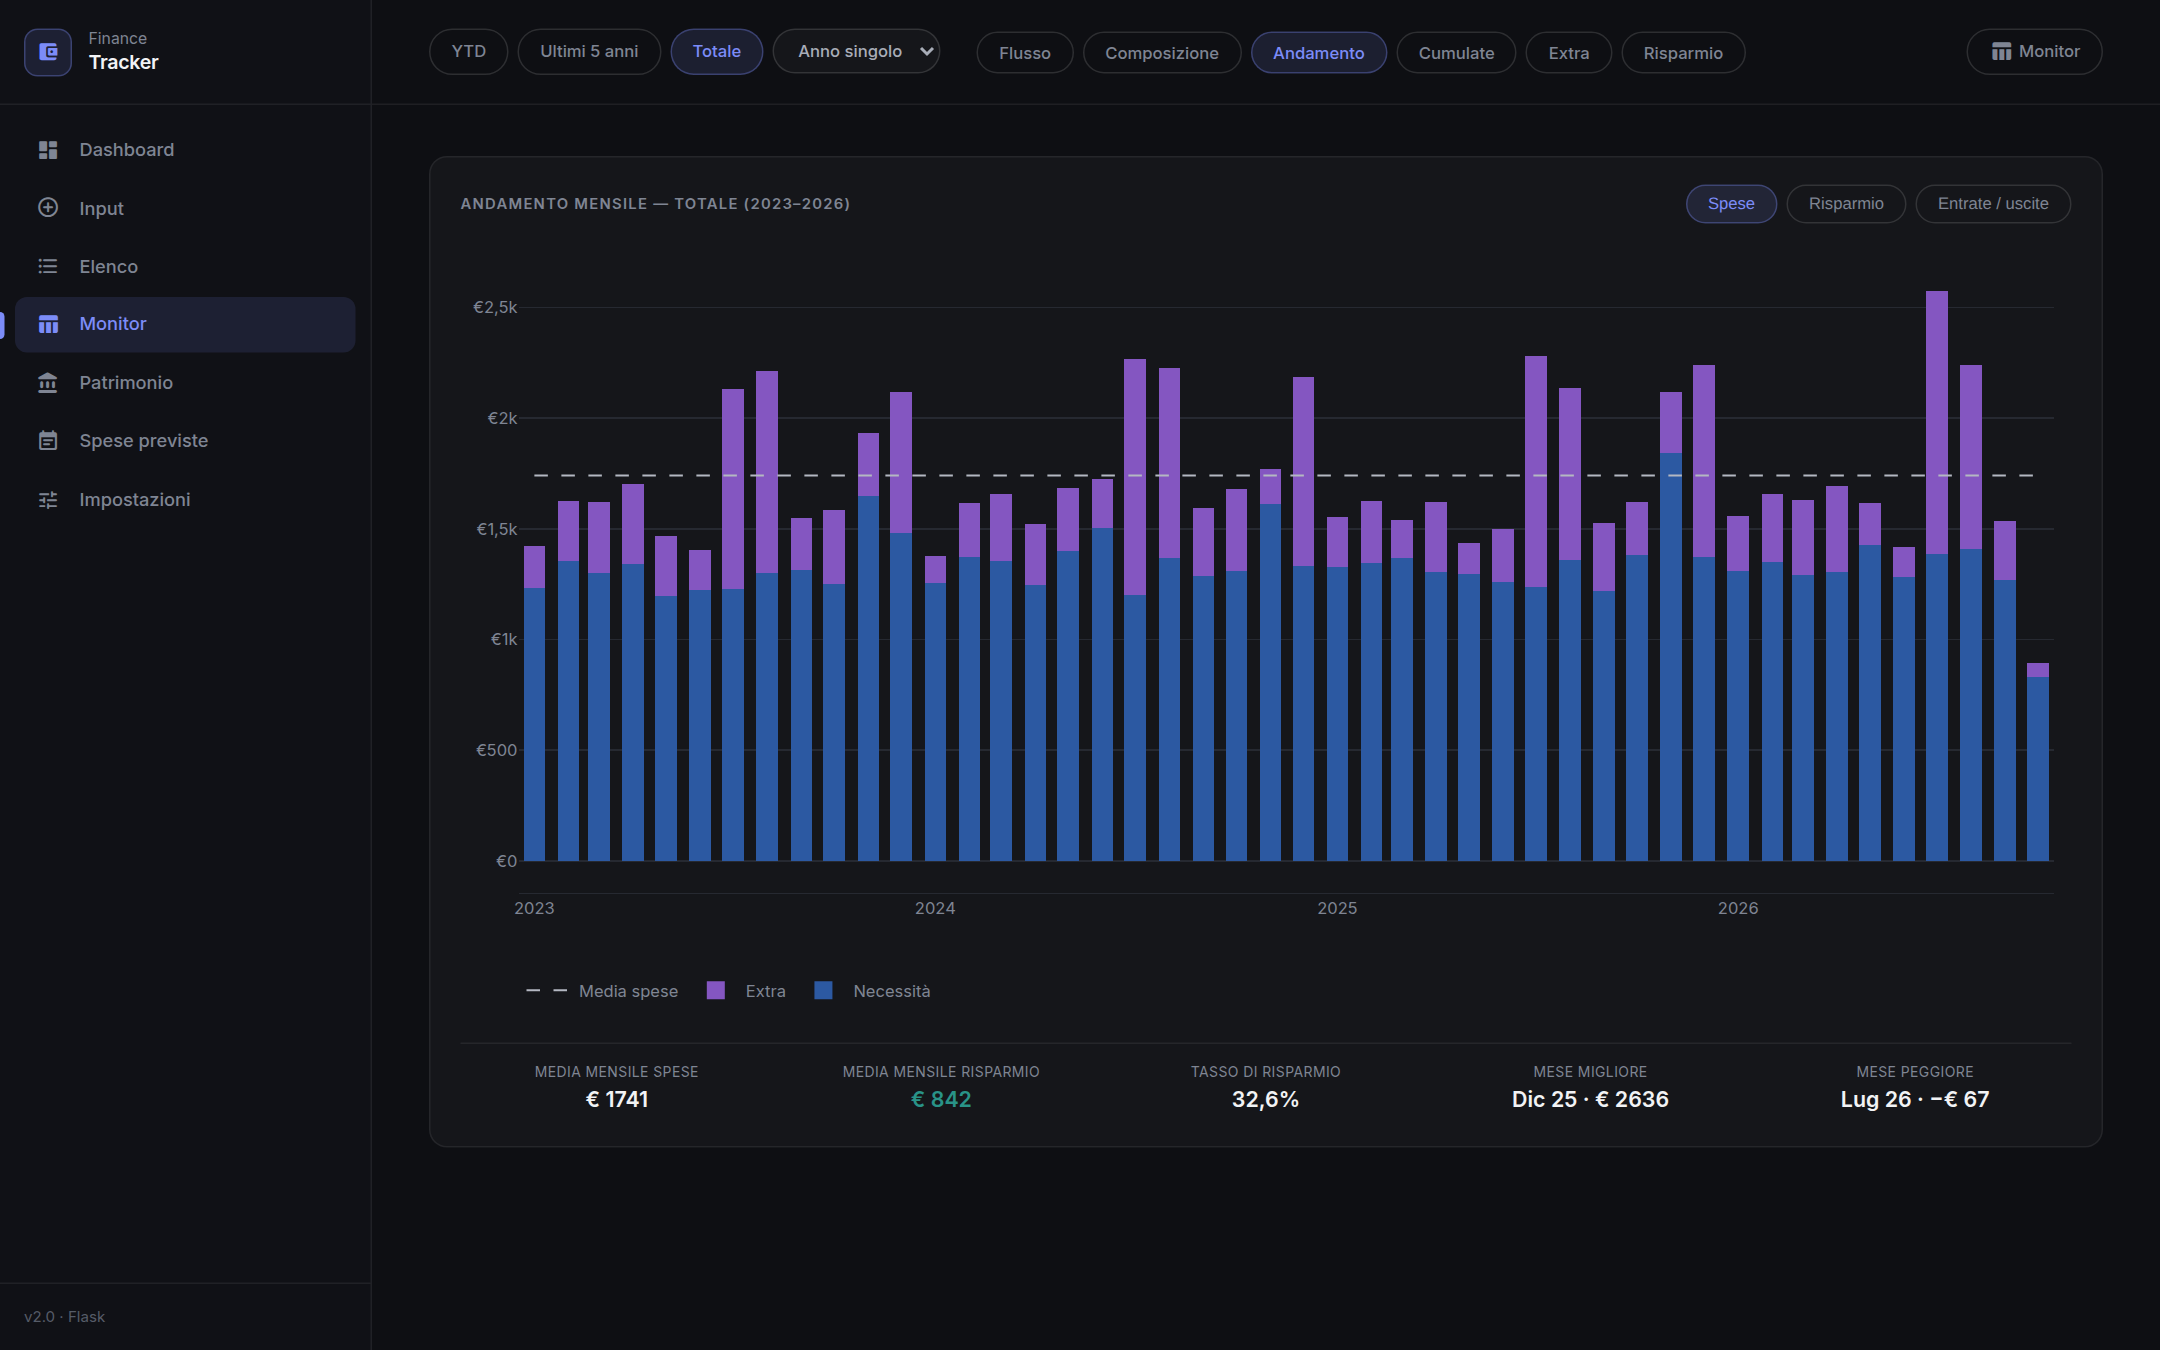
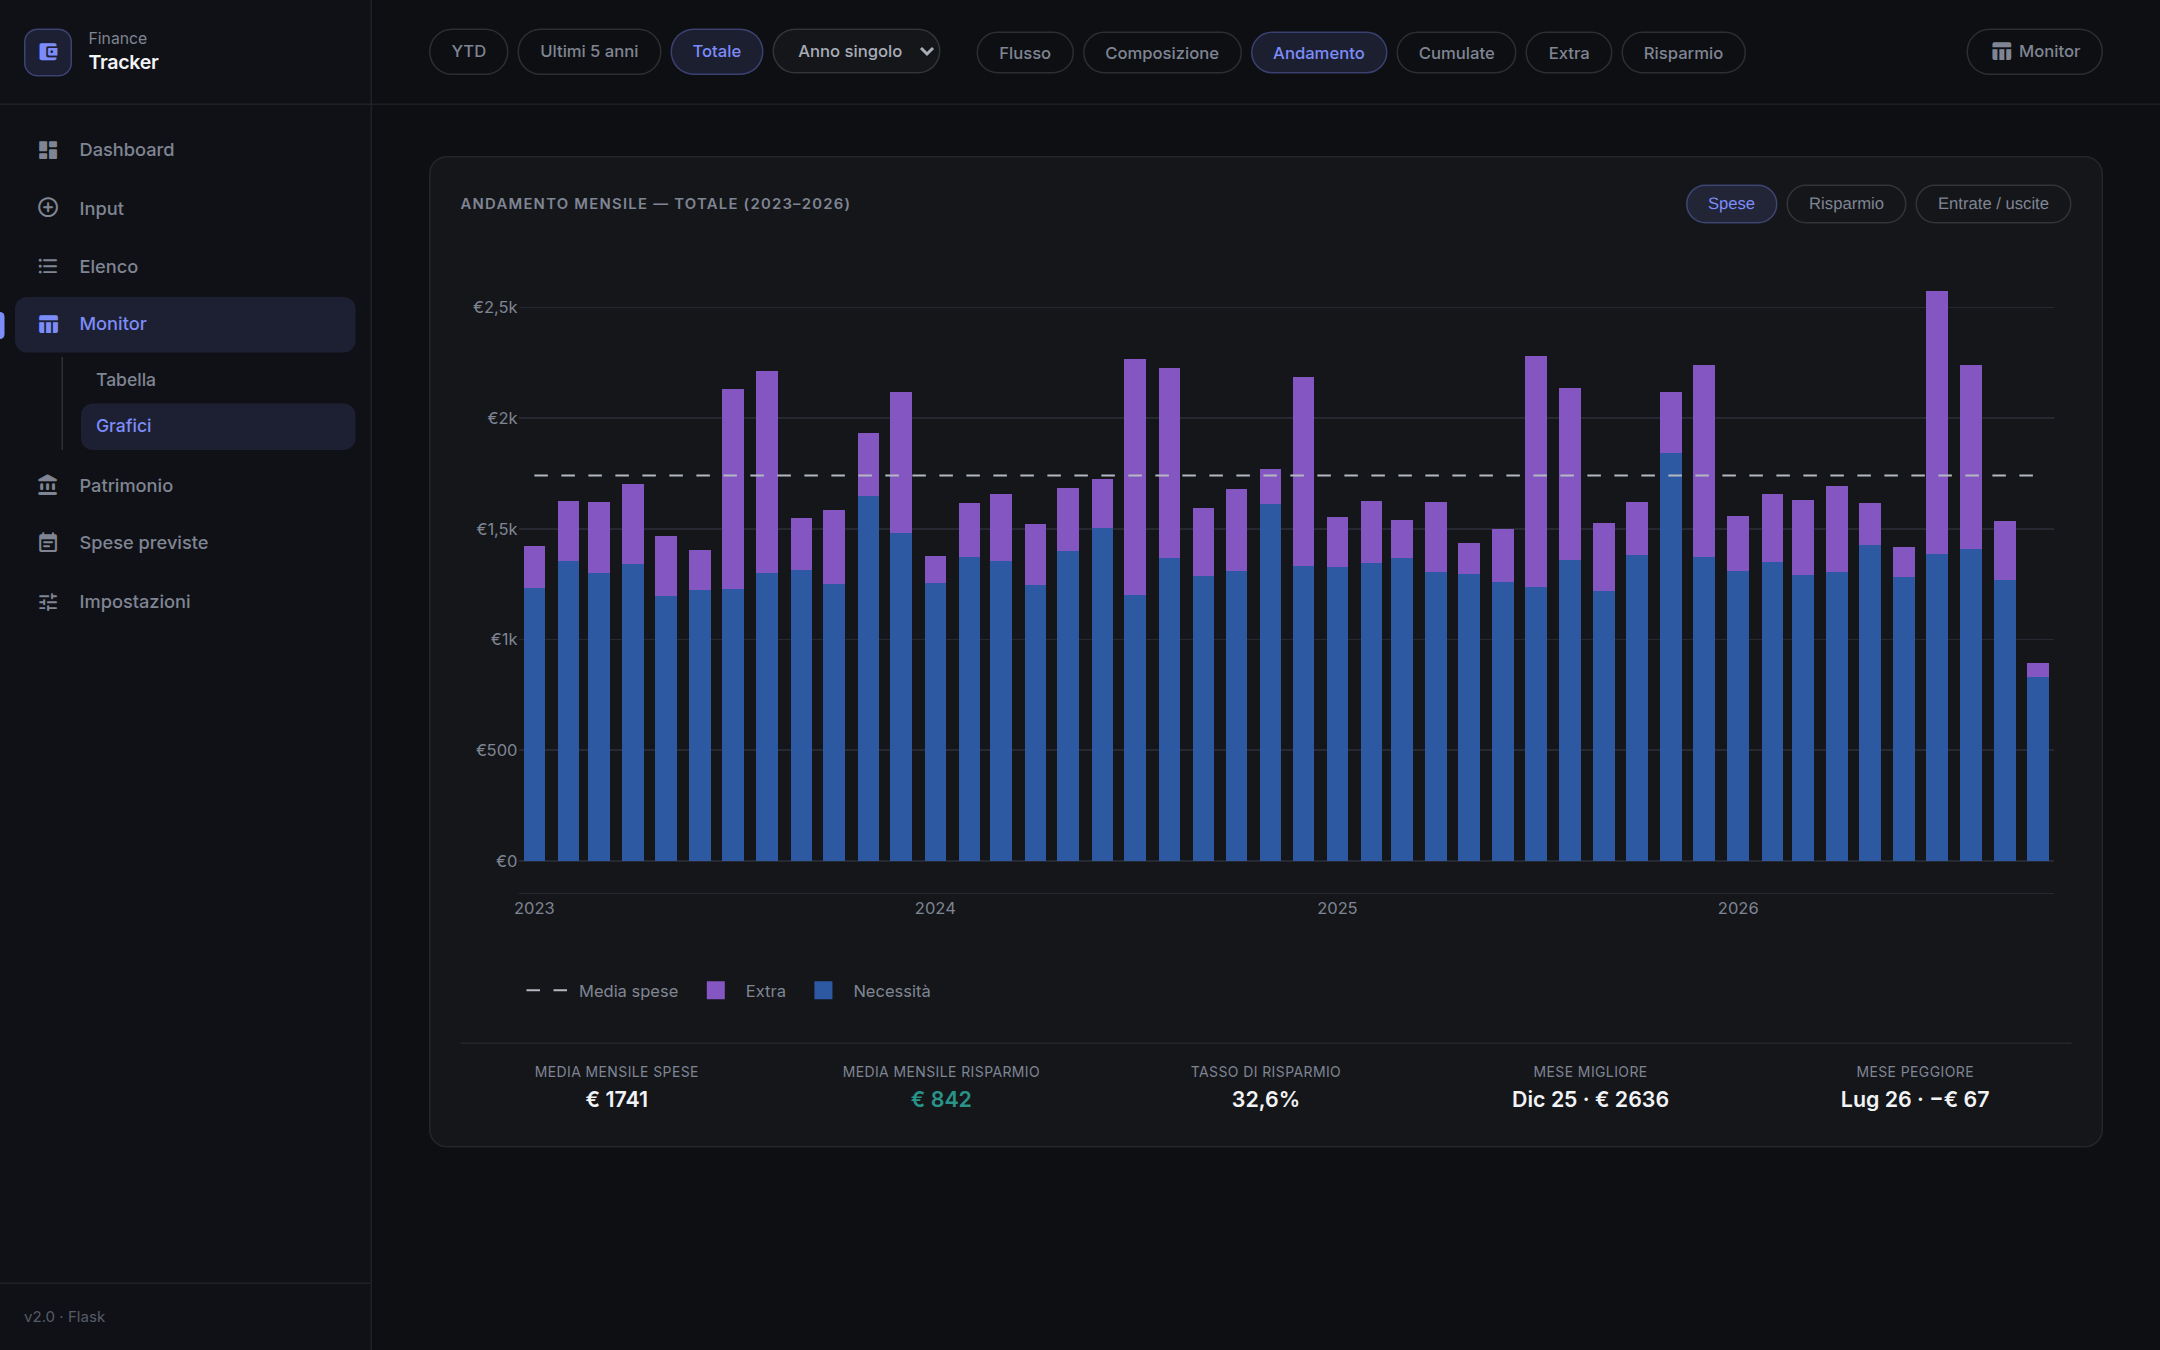
Barra laterale: Monitor con sotto-voci Tabella e Grafici; Patrimonio: pensione complementare spenta di default nel grafico

Changed region(s): [[0.0, 0.28, 0.1861, 0.4044], [0.031, 0.4356, 0.0931, 0.4667]]

diff --git a/templates/base.html b/templates/base.html
@@ -41,9 +41,18 @@
             <a href="{{ url_for('elenco.index') }}" class="nav-item {% if request.endpoint == 'elenco.index' %}active{% endif %}">
                 <span class="material-icons-round">format_list_bulleted</span>Elenco
             </a>
-            <a href="{{ url_for('monitor.index') }}" class="nav-item {% if request.endpoint and (request.endpoint.startswith('monitor') or request.endpoint.startswith('grafici')) %}active{% endif %}">
+            {% set ep = request.endpoint or '' %}
+            {% set in_monitor = ep.startswith('monitor') %}{% set in_grafici = ep.startswith('grafici') %}
+            <a href="{{ url_for('monitor.index') }}" class="nav-item {% if in_monitor or in_grafici %}active{% endif %}">
                 <span class="material-icons-round">table_chart</span>Monitor
             </a>
+            {# Sotto-voci di Monitor: visibili solo quando si è in Monitor o in Grafici. "Tabella" è la pagina predefinita. #}
+            {% if in_monitor or in_grafici %}
+            <div class="nav-sub">
+                <a href="{{ url_for('monitor.index') }}" class="nav-subitem {% if in_monitor %}active{% endif %}">Tabella</a>
+                <a href="{{ url_for('grafici.index') }}" class="nav-subitem {% if in_grafici %}active{% endif %}">Grafici</a>
+            </div>
+            {% endif %}
             <a href="{{ url_for('patrimonio.index') }}" class="nav-item {% if request.endpoint and request.endpoint.startswith('patrimonio') %}active{% endif %}">
                 <span class="material-icons-round">account_balance</span>Patrimonio
             </a>

diff --git a/static/css/style.css b/static/css/style.css
@@ -999,3 +999,10 @@ select.bar-field.active-field { background: var(--accent-wash); border-color: va
     transition: color var(--transition); }
 .expand-link:hover { color: var(--accent); }
 .expand-link .material-icons-round { font-size: 1rem; }
+
+/* Sotto-voci della barra laterale (Monitor → Tabella / Grafici) */
+.nav-sub { display: flex; flex-direction: column; gap: 1px; margin: 1px 0 4px 31px; padding-left: 12px; border-left: 1px solid var(--border-strong); }
+.nav-subitem { padding: 6px 10px; border-radius: var(--radius-sm); font-size: 0.78rem; font-weight: 500; color: var(--text-muted);
+    text-decoration: none; transition: background var(--transition), color var(--transition); }
+.nav-subitem:hover { background: var(--surface-2); color: var(--text); }
+.nav-subitem.active { color: var(--accent); background: var(--accent-wash); }

diff --git a/templates/patrimonio.html b/templates/patrimonio.html
@@ -11,7 +11,7 @@
     <div class="period-btns" id="comp-toggles">
         {% for key, label in [('liquidita', 'Liquidità'), ('emergenza', 'Fondo emergenza'), ('breve', 'Breve termine'),
                               ('lungo', 'Lungo termine'), ('previdenza', 'Pensione compl.')] %}
-        <button type="button" class="period-btn comp-pill active" data-key="{{ key }}"><span class="pill-dot"></span>{{ label }}</button>
+        <button type="button" class="period-btn comp-pill {% if key != 'previdenza' %}active{% endif %}" data-key="{{ key }}"><span class="pill-dot"></span>{{ label }}</button>
         {% endfor %}
         <button type="button" class="period-btn" onclick="resetCompToggles()" title="Mostra tutte le componenti"><span class="material-icons-round">restart_alt</span></button>
     </div>
